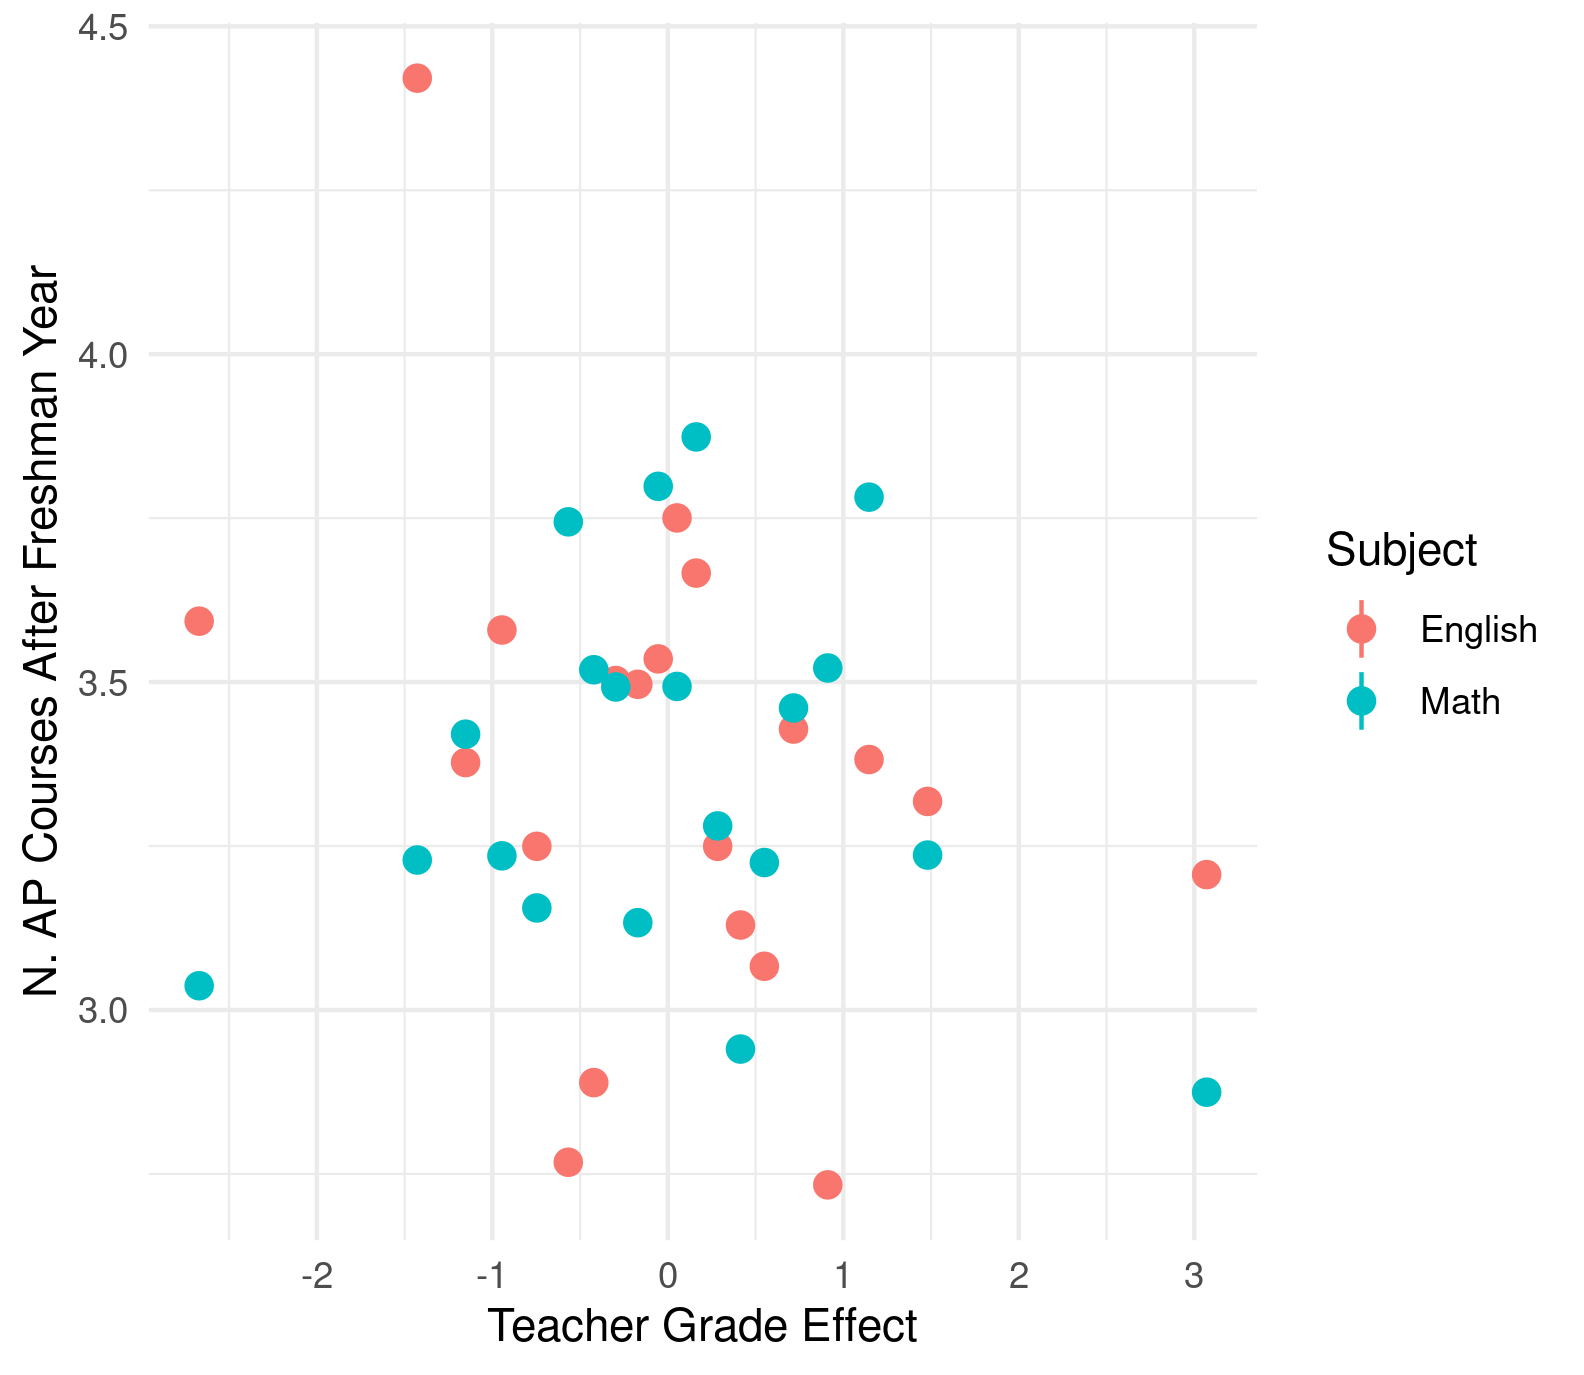
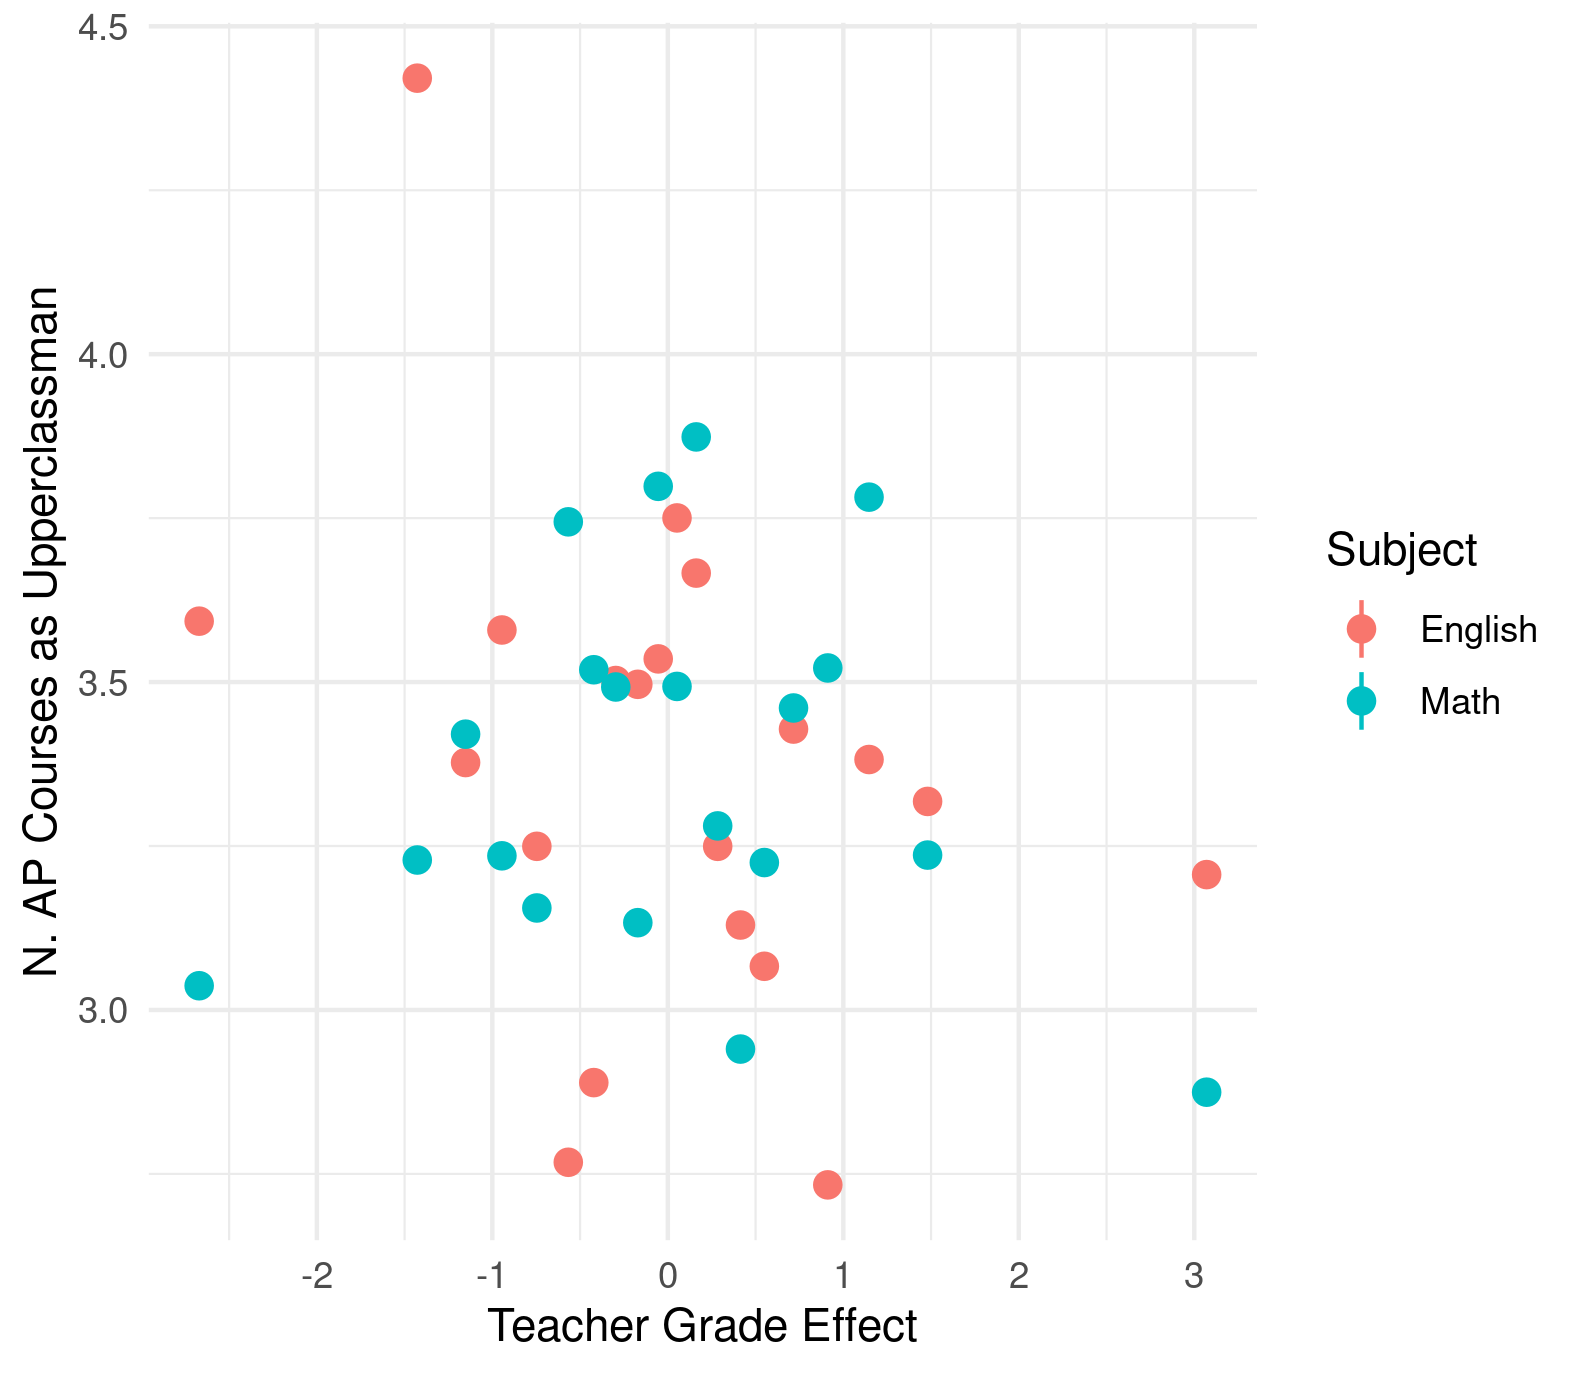
Updating

Changed region(s): [[0.0, 0.1833, 0.0619, 0.7331]]

diff --git a/Output/test_level.tex b/Output/test_level.tex
@@ -1,0 +1,48 @@
+
+% Table created by stargazer v.5.2.2 by Marek Hlavac, Harvard University. E-mail: hlavac at fas.harvard.edu
+% Date and time: Sun, May 16, 2021 - 11:14:01 AM
+% Requires LaTeX packages: dcolumn 
+\begin{table}[!htbp] \centering 
+  \caption{Effect of Class Level on Estimated Grade Effects} 
+  \label{tab:test_level} 
+\scriptsize 
+\begin{tabular}{@{\extracolsep{-6pt}}lD{.}{.}{-3} D{.}{.}{-3} } 
+\\[-1.8ex]\hline 
+\hline \\[-1.8ex] 
+\\[-1.8ex] & \multicolumn{2}{c}{Estimated Grade Effect} \\ 
+\hline \\[-1.8ex] 
+ Lower Level Sophmore Class & -0.082^{***} &  \\ 
+  & (0.007) &  \\ 
+  & & \\ 
+ Higher Level Sophmore Class & 0.052^{***} &  \\ 
+  & (0.005) &  \\ 
+  & & \\ 
+ Freshman Class Level - Honors &  & -0.081^{***} \\ 
+  &  & (0.007) \\ 
+  & & \\ 
+ Sophmore Class Level - AP &  & 0.175^{***} \\ 
+  &  & (0.045) \\ 
+  & & \\ 
+ Sophmore Class Level - Honors &  & 0.053^{***} \\ 
+  &  & (0.005) \\ 
+  & & \\ 
+ Freshman Honors to Sophmore AP &  & -0.112^{**} \\ 
+  &  & (0.049) \\ 
+  & & \\ 
+ Freshman Honors to Sophmore Honors &  & 0.031^{***} \\ 
+  &  & (0.009) \\ 
+  & & \\ 
+Subject Fixed Effects? & \multicolumn{1}{c}{Yes} & \multicolumn{1}{c}{Yes} \\ 
+Year Fixed Effects?? & \multicolumn{1}{c}{Yes} & \multicolumn{1}{c}{Yes} \\ 
+Observations & \multicolumn{1}{c}{63,921} & \multicolumn{1}{c}{63,921} \\ 
+\hline \\[-1.8ex] 
+\textit{Notes:} & \multicolumn{2}{r}{$^{***}$Significant at the 1 percent level.} \\ 
+ & \multicolumn{2}{r}{$^{**}$Significant at the 5 percent level.} \\ 
+ & \multicolumn{2}{r}{$^{*}$Significant at the 10 percent level.} \\ 
+ & \multicolumn{2}{r}{Levels are coded as 1 (Honors/AP) or  0 (Regular)). Students are coded as} \\ 
+ & \multicolumn{2}{r}{having a lower level sophmore class if, for example, they switch from an} \\ 
+ & \multicolumn{2}{r}{honors class in their freshman year vs a regular class in their sophmore year.} \\ 
+ & \multicolumn{2}{r}{Calculated using freshmen cohorts from 2011-12 to 2013-14 school years.} \\ 
+ & \multicolumn{2}{r}{Heteroskedasticity robust standard errors are used.} \\ 
+\end{tabular} 
+\end{table} 

diff --git a/Output/course_out.tex b/Output/course_out.tex
@@ -1,6 +1,6 @@
 
 % Table created by stargazer v.5.2.2 by Marek Hlavac, Harvard University. E-mail: hlavac at fas.harvard.edu
-% Date and time: Fri, May 14, 2021 - 10:05:13 PM
+% Date and time: Sat, May 15, 2021 - 01:08:49 PM
 % Requires LaTeX packages: dcolumn 
 \begin{table}[!htbp] \centering 
   \caption{Impact of Standardized Teacher Grade Effects on Course Taking Patterns} 
@@ -9,14 +9,14 @@
 \begin{tabular}{@{\extracolsep{5pt}}lD{.}{.}{-3} D{.}{.}{-3} D{.}{.}{-3} D{.}{.}{-3} } 
 \\[-1.8ex]\hline 
 \hline \\[-1.8ex] 
-\\[-1.8ex] & \multicolumn{2}{c}{N. AP Courses After Freshman Year} & \multicolumn{2}{c}{N. Honors Courses After Freshman Year} \\ 
+\\[-1.8ex] & \multicolumn{2}{c}{N. AP Courses as Upperclassman} & \multicolumn{2}{c}{N. Honors Courses as Upperclassman} \\ 
  & \multicolumn{1}{c}{Math} & \multicolumn{1}{c}{English} & \multicolumn{1}{c}{Math} & \multicolumn{1}{c}{English} \\ 
 \hline \\[-1.8ex] 
- Teacher Grade Effect & 0.008 & -0.129^{***} & 0.331^{***} & 0.047 \\ 
-  & (0.018) & (0.018) & (0.049) & (0.047) \\ 
+ Teacher Grade Effect & 0.006 & -0.131^{***} & 0.282^{***} & -0.016 \\ 
+  & (0.018) & (0.018) & (0.047) & (0.046) \\ 
   & & & & \\ 
 Year Dummies & \multicolumn{1}{c}{Yes} & \multicolumn{1}{c}{Yes} & \multicolumn{1}{c}{Yes} & \multicolumn{1}{c}{Yes} \\ 
-Mean (All Years) & 3.398 & 3.334 & 12.75 & 12.723 \\ 
+Mean (All Years) & 3.398 & 3.334 & 11.844 & 11.83 \\ 
 Observations & \multicolumn{1}{c}{31,214} & \multicolumn{1}{c}{32,740} & \multicolumn{1}{c}{31,214} & \multicolumn{1}{c}{32,740} \\ 
 \hline \\[-1.8ex] 
 \textit{Notes:} & \multicolumn{4}{r}{$^{***}$Significant at the 1 percent level.} \\ 

diff --git a/Output/fresh_out.tex b/Output/fresh_out.tex
@@ -1,6 +1,6 @@
 
 % Table created by stargazer v.5.2.2 by Marek Hlavac, Harvard University. E-mail: hlavac at fas.harvard.edu
-% Date and time: Fri, May 14, 2021 - 10:04:31 PM
+% Date and time: Sat, May 15, 2021 - 01:08:01 PM
 % Requires LaTeX packages: dcolumn 
 \begin{table}[!htbp] \centering 
   \caption{Impact of Standardized Teacher Grade Effects on Freshman Outcomes} 
@@ -9,10 +9,10 @@
 \begin{tabular}{@{\extracolsep{5pt}}lD{.}{.}{-3} D{.}{.}{-3} D{.}{.}{-3} D{.}{.}{-3} D{.}{.}{-3} D{.}{.}{-3} } 
 \\[-1.8ex]\hline 
 \hline \\[-1.8ex] 
-\\[-1.8ex] & \multicolumn{2}{c}{Freshman On Track} & \multicolumn{2}{c}{Freshman Core GPA} & \multicolumn{2}{c}{Freshman Attendance} \\ 
+\\[-1.8ex] & \multicolumn{2}{c}{Freshman On-Track} & \multicolumn{2}{c}{Freshman Core GPA} & \multicolumn{2}{c}{Freshman Attendance} \\ 
  & \multicolumn{1}{c}{Math} & \multicolumn{1}{c}{English} & \multicolumn{1}{c}{Math} & \multicolumn{1}{c}{English} & \multicolumn{1}{c}{Math} & \multicolumn{1}{c}{English} \\ 
 \hline \\[-1.8ex] 
- Teacher Grade Effect & 0.029^{***} & 0.027^{***} & 0.106^{***} & 0.113^{***} & -0.000 & 0.000 \\ 
+ Teacher Grade Effect & 0.029^{***} & 0.028^{***} & 0.106^{***} & 0.114^{***} & -0.000 & 0.000 \\ 
   & (0.002) & (0.002) & (0.004) & (0.004) & (0.000) & (0.000) \\ 
   & & & & & & \\ 
 Year Dummies & \multicolumn{1}{c}{Yes} & \multicolumn{1}{c}{Yes} & \multicolumn{1}{c}{Yes} & \multicolumn{1}{c}{Yes} & \multicolumn{1}{c}{Yes} & \multicolumn{1}{c}{Yes} \\ 

diff --git a/Output/academic_out.tex b/Output/academic_out.tex
@@ -1,6 +1,6 @@
 
 % Table created by stargazer v.5.2.2 by Marek Hlavac, Harvard University. E-mail: hlavac at fas.harvard.edu
-% Date and time: Fri, May 14, 2021 - 10:06:09 PM
+% Date and time: Sat, May 15, 2021 - 01:09:52 PM
 % Requires LaTeX packages: dcolumn 
 \begin{table}[!htbp] \centering 
   \caption{Impact of Standardized Teacher Grade Effects on Academic Outcomes} 
@@ -12,7 +12,7 @@
 \\[-1.8ex] & \multicolumn{2}{c}{ACT/SAT Score (ACT Scale)} & \multicolumn{2}{c}{Graduating Core GPA} & \multicolumn{2}{c}{Graduating Overall GPA} \\ 
  & \multicolumn{1}{c}{Math} & \multicolumn{1}{c}{English} & \multicolumn{1}{c}{Math} & \multicolumn{1}{c}{English} & \multicolumn{1}{c}{Math} & \multicolumn{1}{c}{English} \\ 
 \hline \\[-1.8ex] 
- Teacher Grade Effect & -0.002 & -0.018 & 0.019^{***} & 0.023^{***} & 0.020^{***} & 0.017^{***} \\ 
+ Teacher Grade Effect & -0.003 & -0.019 & 0.019^{***} & 0.023^{***} & 0.020^{***} & 0.018^{***} \\ 
   & (0.014) & (0.013) & (0.004) & (0.004) & (0.004) & (0.004) \\ 
   & & & & & & \\ 
 Year Dummies & \multicolumn{1}{c}{Yes} & \multicolumn{1}{c}{Yes} & \multicolumn{1}{c}{Yes} & \multicolumn{1}{c}{Yes} & \multicolumn{1}{c}{Yes} & \multicolumn{1}{c}{Yes} \\ 

diff --git a/Output/autocorrelation.tex b/Output/autocorrelation.tex
@@ -6,9 +6,9 @@
 \toprule
   & 2011 & 2012 & 2013\\
 \midrule
-2011 & 1.000 & 0.439 & 0.300\\
-2012 & 0.439 & 1.000 & 0.395\\
-2013 & 0.300 & 0.395 & 1.000\\
+2010 & 1.000 & 0.463 & 0.384\\
+2011 & 0.463 & 1.000 & 0.441\\
+2012 & 0.384 & 0.441 & 1.000\\
 \bottomrule
 \multicolumn{4}{l}{\textsuperscript{} \textit{Note:} Constructed using}\\
 \multicolumn{4}{l}{pairwise complete estimates of}\\

diff --git a/Output/test3_2.tex b/Output/test3_2.tex
@@ -1,6 +1,6 @@
 
 % Table created by stargazer v.5.2.2 by Marek Hlavac, Harvard University. E-mail: hlavac at fas.harvard.edu
-% Date and time: Mon, May 10, 2021 - 07:43:14 PM
+% Date and time: Sun, May 16, 2021 - 10:28:19 AM
 % Requires LaTeX packages: dcolumn 
 \begin{table}[!htbp] \centering 
   \caption{Checking Balance of Demographic Controls with Different Sets of Controls} 

diff --git a/Output/test3_3.tex b/Output/test3_3.tex
@@ -1,6 +1,6 @@
 
 % Table created by stargazer v.5.2.2 by Marek Hlavac, Harvard University. E-mail: hlavac at fas.harvard.edu
-% Date and time: Mon, May 10, 2021 - 07:43:16 PM
+% Date and time: Sun, May 16, 2021 - 10:28:21 AM
 % Requires LaTeX packages: dcolumn 
 \begin{table}[!htbp] \centering 
   \caption{Checking Balance of Behavioral Controls with Different Sets of Controls} 

diff --git a/Output/test3_1.tex b/Output/test3_1.tex
@@ -1,6 +1,6 @@
 
 % Table created by stargazer v.5.2.2 by Marek Hlavac, Harvard University. E-mail: hlavac at fas.harvard.edu
-% Date and time: Mon, May 10, 2021 - 07:43:11 PM
+% Date and time: Sun, May 16, 2021 - 10:28:16 AM
 % Requires LaTeX packages: dcolumn 
 \begin{table}[!htbp] \centering 
   \caption{Checking Balance of Academic Controls with Different Sets of Controls} 

diff --git a/Output/long_out.tex b/Output/long_out.tex
@@ -1,6 +1,6 @@
 
 % Table created by stargazer v.5.2.2 by Marek Hlavac, Harvard University. E-mail: hlavac at fas.harvard.edu
-% Date and time: Fri, May 14, 2021 - 10:07:07 PM
+% Date and time: Sat, May 15, 2021 - 01:10:53 PM
 % Requires LaTeX packages: dcolumn 
 \begin{table}[!htbp] \centering 
   \caption{Impact of Standardized Teacher Grade Effects on Long Term Outcomes} 

diff --git a/Output/test2.tex b/Output/test2.tex
@@ -1,6 +1,6 @@
 
 % Table created by stargazer v.5.2.2 by Marek Hlavac, Harvard University. E-mail: hlavac at fas.harvard.edu
-% Date and time: Mon, May 10, 2021 - 07:43:08 PM
+% Date and time: Sun, May 16, 2021 - 10:28:13 AM
 % Requires LaTeX packages: dcolumn 
 \begin{table}[!htbp] \centering 
   \caption{Link Between Teacher Characteristics and Grade Effect} 

diff --git a/Output/test1.tex b/Output/test1.tex
@@ -1,6 +1,6 @@
 
 % Table created by stargazer v.5.2.2 by Marek Hlavac, Harvard University. E-mail: hlavac at fas.harvard.edu
-% Date and time: Mon, May 10, 2021 - 07:43:07 PM
+% Date and time: Sun, May 16, 2021 - 10:28:11 AM
 % Requires LaTeX packages: dcolumn 
 \begin{table}[!htbp] \centering 
   \caption{Link Between Freshman and Sophmore Year Teachers} 
